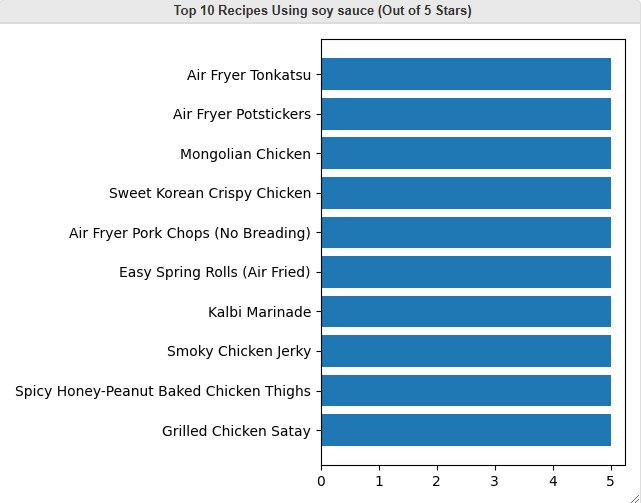
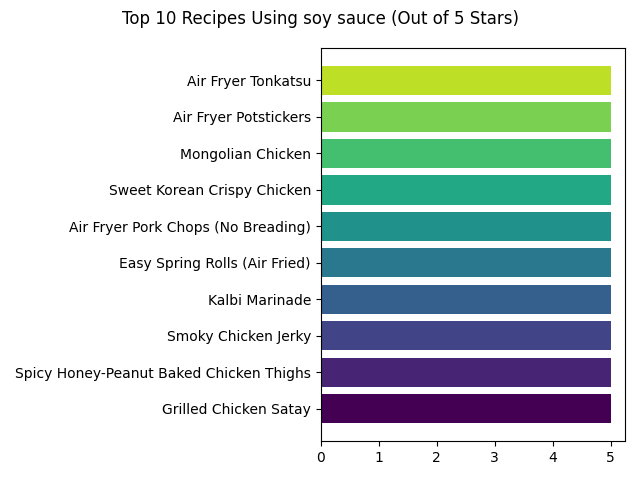
Add conclusions and analyses for common ingredients

diff --git a/common_ingredients.py b/common_ingredients.py
@@ -1,7 +1,17 @@
 import pandas as pd
 import matplotlib.pyplot as plt
 import matplotlib
+import numpy as np
 matplotlib.use('WebAgg') # Uncomment when using plots remotely or with wsl
+
+
+def get_colors(color_num):
+    cmap = plt.get_cmap('viridis')
+    spread = np.array(np.arange(0,len(cmap.colors),len(cmap.colors)/color_num),dtype=np.int64)
+    colors = []
+    for val in spread:
+        colors.append(cmap(val))
+    return colors
 
 #
 df = pd.read_csv("hf://datasets/AkashPS11/recipes_data_food.com/recipes.csv")
@@ -54,15 +64,17 @@ print(df2.loc[7496,'ingredients'])
 from collections import Counter
 n = 15
 top_n_ingredients = dict(Counter(all_ingredients).most_common(n))
-print(top_n_ingredients)
+print(top_n_ingredients)                                                                                                                                                                                                                                                 
 
 # Plot the top n ingredients
 fig = plt.figure(f"Top {n} Most Commonly Used Ingredients")
+plt.suptitle(f"Top {n} Most Commonly Used Ingredients")
 plt.subplot(1,1,1)
-plt.barh(list(top_n_ingredients.keys()),list(top_n_ingredients.values()))
+plt.barh(list(top_n_ingredients.keys()),list(top_n_ingredients.values()),color=get_colors(n))
 # plt.title(f"Top {n} Most Commonly Used Ingredients")
 # plt.xlabel("# of Recipes With Ingredient")
 plt.tight_layout()
+plt.savefig(f"images/Top {n} Most Commonly Used Ingredients")
 
 # Grade recipes by how many of the most common ingredients they use
 recipe_scores = {}
@@ -78,11 +90,14 @@ top_n_recipes = dict(Counter(recipe_scores).most_common(n))
 
 # Plot the top n that use the most of the most common ingredients
 fig = plt.figure(f"Top {n} Recipes Using Most Common Ingredients")
+fig.suptitle(f"Top {n} Recipes Using Most Common Ingredients")
 plt.subplot(1,1,1)
-plt.barh(list(top_n_recipes.keys()),list(top_n_recipes.values()))
+plt.viridis()
+plt.barh(list(top_n_recipes.keys()),list(top_n_recipes.values()),color=get_colors(n))
 # plt.title(f"Top {n} Recipes Using Most Common Ingredients")
 # plt.xlabel("# of Common Ingredients Used in Recipe")
 plt.tight_layout()
+plt.savefig(f"images/Top {n} Recipes Using Most Common Ingredients")
 # plt.text(0.1, 0.5, 'Left-aligned text', horizontalalignment='left')
 # import textwrap
 # labels = [textwrap.fill(label, 10) for label in list(top_n_recipes.keys())]
@@ -118,10 +133,13 @@ top_n_recipes_excluding_x = dict(Counter(recipe_scores_excluding_x).most_common(
 
 # Plot the top n that use the most of the most common ingredients
 fig = plt.figure(f"Top {n} Using Most Common Ingredients\n(Excluding {x})")
+fig.suptitle(f"Top {n} Using Most Common Ingredients (Excluding \n{x})")
 plt.subplot(1,1,1)
-plt.barh(list(top_n_recipes.keys()),list(top_n_recipes.values()))
+plt.viridis()
+plt.barh(list(top_n_recipes_excluding_x.keys()),list(top_n_recipes_excluding_x.values()),color=get_colors(n))
 # plt.title(f"Top {n} Using Most Common Ingredients (Excluding {x})")
 plt.tight_layout()
+plt.savefig(f"images/Top {n} Recipes Excluding xyz")
 
 print()
 print()
@@ -145,12 +163,16 @@ top_n_recipes_using_x = dict(Counter(recipes_using_x).most_common(n))
 
 # Plot the top n that use the most of the most common ingredients
 plt.figure(f"Top {n} Recipes Using {x} (Out of 5 Stars)")
+plt.suptitle(f"Top {n} Recipes Using {x} (Out of 5 Stars)")
 plt.subplot(1,1,1)
 # plt.tight_layout()
 # plt.yticks(rotation=45, ha='right')
-plt.barh(list(top_n_recipes_using_x.keys()),list(top_n_recipes_using_x.values()))
+plt.viridis()
+plt.barh(list(top_n_recipes_using_x.keys()),list(top_n_recipes_using_x.values()),color=get_colors(n))
 # plt.title(f"Top {n} Recipes (Using {x})")
 plt.tight_layout()
+plt.savefig(f"images/Top {n} Recipes Using x")
+
 print()
 print()
 print("--------------------------------------------------------------------------")
@@ -173,10 +195,13 @@ top_n_recipes_using_x = dict(Counter(recipes_using_x).most_common(n))
 
 # Plot the top n that use the most of the most common ingredients
 fig = plt.figure(f"Top {n} Recipes Using {x} and {y} (Out of 5 Stars)")
+plt.suptitle(f"Top {n} Recipes Using {x} and {y} (Out of 5 Stars)")
 plt.subplot(1,1,1)
-plt.barh(list(top_n_recipes_using_x.keys()),list(top_n_recipes_using_x.values()))
+plt.viridis()
+plt.barh(list(top_n_recipes_using_x.keys()),list(top_n_recipes_using_x.values()),color=get_colors(n))
 # plt.title(f"Top {n} Recipes (Using {x} and {y})")
 plt.tight_layout()
+plt.savefig(f"images/Top {n} Recipes Using xy")
 
 print()
 print()
@@ -203,10 +228,13 @@ top_n_recipes_using_x = dict(Counter(recipes_using_x).most_common(n))
 
 # Plot the top n that use the most of the most common ingredients
 fig = plt.figure(f"Top {n} Recipes Using {x}, {y}, and {z} (Out of 5 Stars)")
+plt.suptitle(f"Top {n} Recipes Using {x}, {y}, and {z} (Out of 5 Stars)")
 plt.subplot(1,1,1)
-plt.barh(list(top_n_recipes_using_x.keys()),list(top_n_recipes_using_x.values()))
+plt.viridis()
+plt.barh(list(top_n_recipes_using_x.keys()),list(top_n_recipes_using_x.values()),color=get_colors(n))
 # plt.title(f"Top {n} Recipes (Using {x}, {y}, and {z})")
 plt.tight_layout()
+plt.savefig(f"images/Top {n} Recipes Using xyz")
 
 print()
 print()

diff --git a/streamlit_app.py b/streamlit_app.py
@@ -20,12 +20,40 @@ if menu == "Results":
     st.write(
         "This page is dedicated to showcasing our results and charts."
     )
+    st.write("""
+             ## Common Ingredient Analysis
+             The main question that was investigated in this part of the project was "What are the ingredients that are used most commonly between recipes?"
+             The answer to this question is interested for a number of reasons. One is that knowing what ingredients are most common can help beginning home cooks,
+             that want to stick to a budget but also practice several recipes, choose their ingredients more efficiently. Through this analysis, we were able to find
+             15 ingredients that were used most commonly. Fittingly, the most commonly used ingredient was salt, which was used in almost 10000 recipes.
+             """)
     st.image('images/Top 15 Most Commonly Used Ingredients.png')
-    st.image('images/Top 30 Recipes Using xyz.png')
+    st.write("""
+             ### Common Ingredients, Common Recipes
+             Taking this analysis a step further, we took the top 15 most common ingredients and found which recipes used the most of these ingredients. 
+             Doing this would allow for a user to be able to buy all of these ingredients and know ahead of time that they could make several recipes with most of those ingredients.
+             One interesting conclusion that we were able to draw from this relates to the kind of ingredients that were most common, which were the kind of ingredients that were most common.
+             From the figure below, we can see that most of the recipes that can be made with the top 15 ingredients were baked goods.
+             """)
+    st.image('images/Top 30 Recipes Using Most Common Ingredients.png')
+    st.write("""
+             ### Less Baked Goods Please
+             To help make this analysis useful to more people, we included an analysis that excluded some ingredients to help veer the analysis away from baked goods.
+             Although there are much less baked goods with this result, some still remain, indicating that some baked goods could not be filtered out this way.
+             """)
     st.image('images/Top 30 Recipes Excluding xyz.png')
+    st.write("""
+             ### Specifying Ingredients
+             One benefit of this analysis is that it can also be used to determine potential recipes based on rating and specific ingredients. 
+             The following three figures show the results of filtering for the top 10 rated recipes that use specific ingredients.
+             Users can then use this project to specify an ingredient that they might have already to then receive any number of recommended recipes using that ingredient. 
+             """)
     st.image('images/Top 10 Recipes Using x.png')
     st.image('images/Top 10 Recipes Using xy.png')
     st.image('images/Top 10 Recipes Using xyz.png')
+    st.write("""
+             ## Protein Analysis
+             """)
     st.image('images/JM1.png')
     st.image('images/JM2.png')
     st.image('images/JM3.png')
@@ -33,6 +61,9 @@ if menu == "Results":
     st.image('images/JM5.png')
     st.image('images/JM6.png')
     st.image('images/JM7.png')
+    st.write("""
+             ## Calorie Analysis
+             """)
     st.image('images/SA1.png')
     st.image('images/SA2.png')
     st.image('images/SA3.png')
